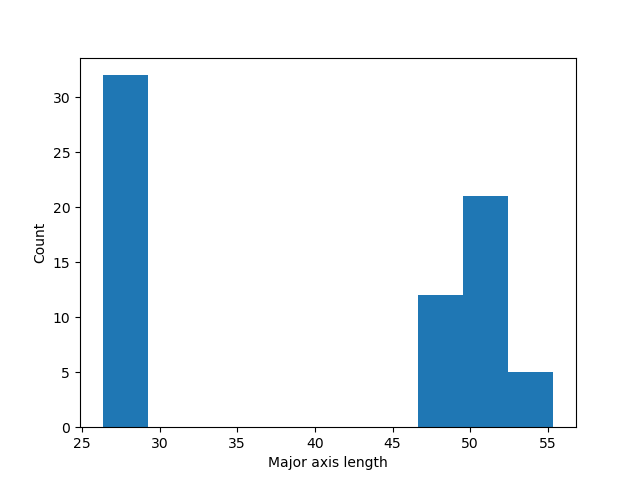
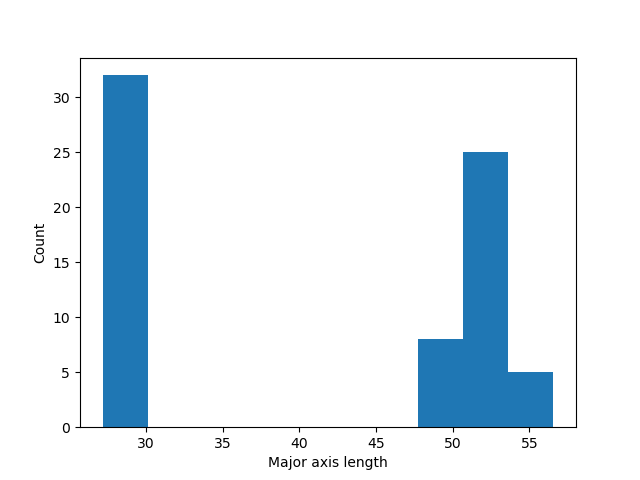
task 3 comments added

diff --git a/src/task3.py b/src/task3.py
@@ -22,17 +22,6 @@ cv2.imshow('Grey scale image',sample_small)
 cv2.waitKey(0)
 cv2.destroyAllWindows()
 
-# Convert the original image to HSV
-# and take H channel for further calculations
-sample_hsv = cv2.cvtColor(sample, cv2.COLOR_BGR2HSV)
-sample_h = sample_hsv[:, :, 0]
-
-# Show the H channel of the image
-sample_small = cv2.resize(sample_h, (640, 480))
-cv2.imshow('H channel of the image',sample_small)
-cv2.waitKey(0)
-cv2.destroyAllWindows()
-
 # Convert the original image to grayscale
 sample_grey = cv2.cvtColor(sample, cv2.COLOR_BGR2GRAY)
 
@@ -50,17 +39,8 @@ cv2.imshow('Image after Otsu''s thresholding',sample_small)
 cv2.waitKey(0)
 cv2.destroyAllWindows()
 
-kernel = np.ones((10, 10),np.uint8)
-sample_res = cv2.morphologyEx(binary_image, cv2.MORPH_OPEN, kernel)
-
-
-sample_small = cv2.resize(sample_res, (640, 480))
-cv2.imshow('Image after morphological transformation',sample_small)
-cv2.waitKey(0)
-cv2.destroyAllWindows()
-
 # Find connected pixels and compose them into objects
-labels = measure.label(sample_res)
+labels = measure.label(binary_image)
 
 # Calculate features for each object;
 # For task3, since we want to differentiate
@@ -73,6 +53,7 @@ properties = measure.regionprops(labels)
 # - some intensity/color-based feature 2 (dimension 2)
 features = np.zeros((len(properties), 1))
 
+# find a major axis length as a feature
 for i in range(len(properties)):
     features[i] = properties[i].major_axis_length
 
@@ -83,8 +64,7 @@ plt.ylabel("Count")
 plt.show()
 plt.savefig('../output/task3_histogram.png')
 
-
-# *** Choose the thresholds for your features
+# *** Choose the threshold for your feature
 thrF1 = 40
 
 # *** It's time to classify, count and display the objects
